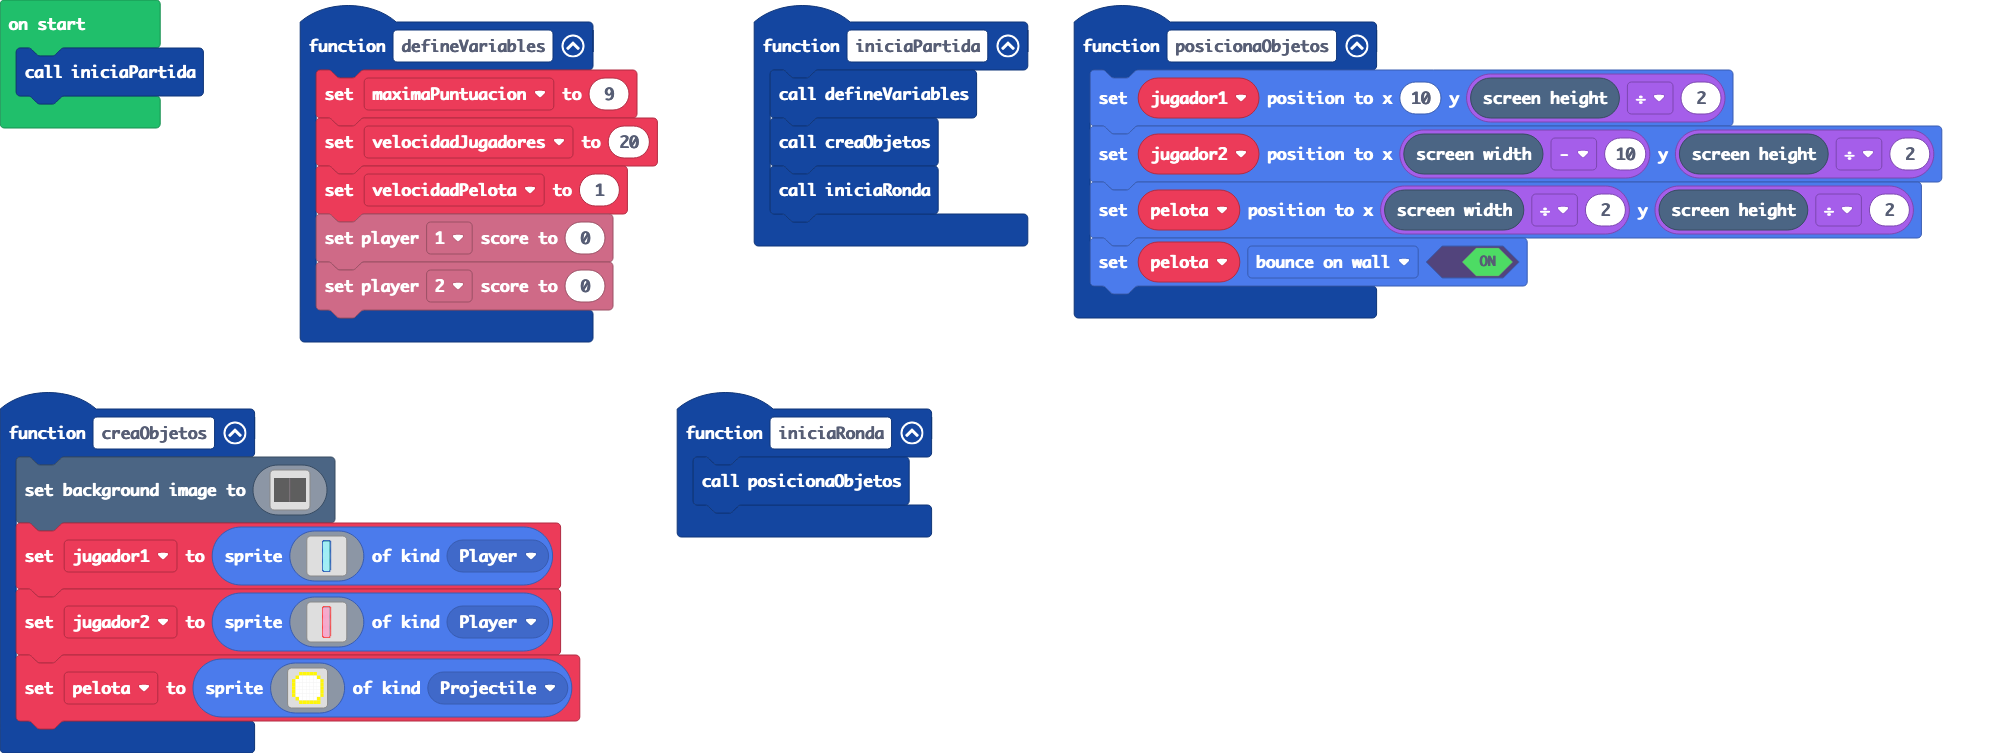
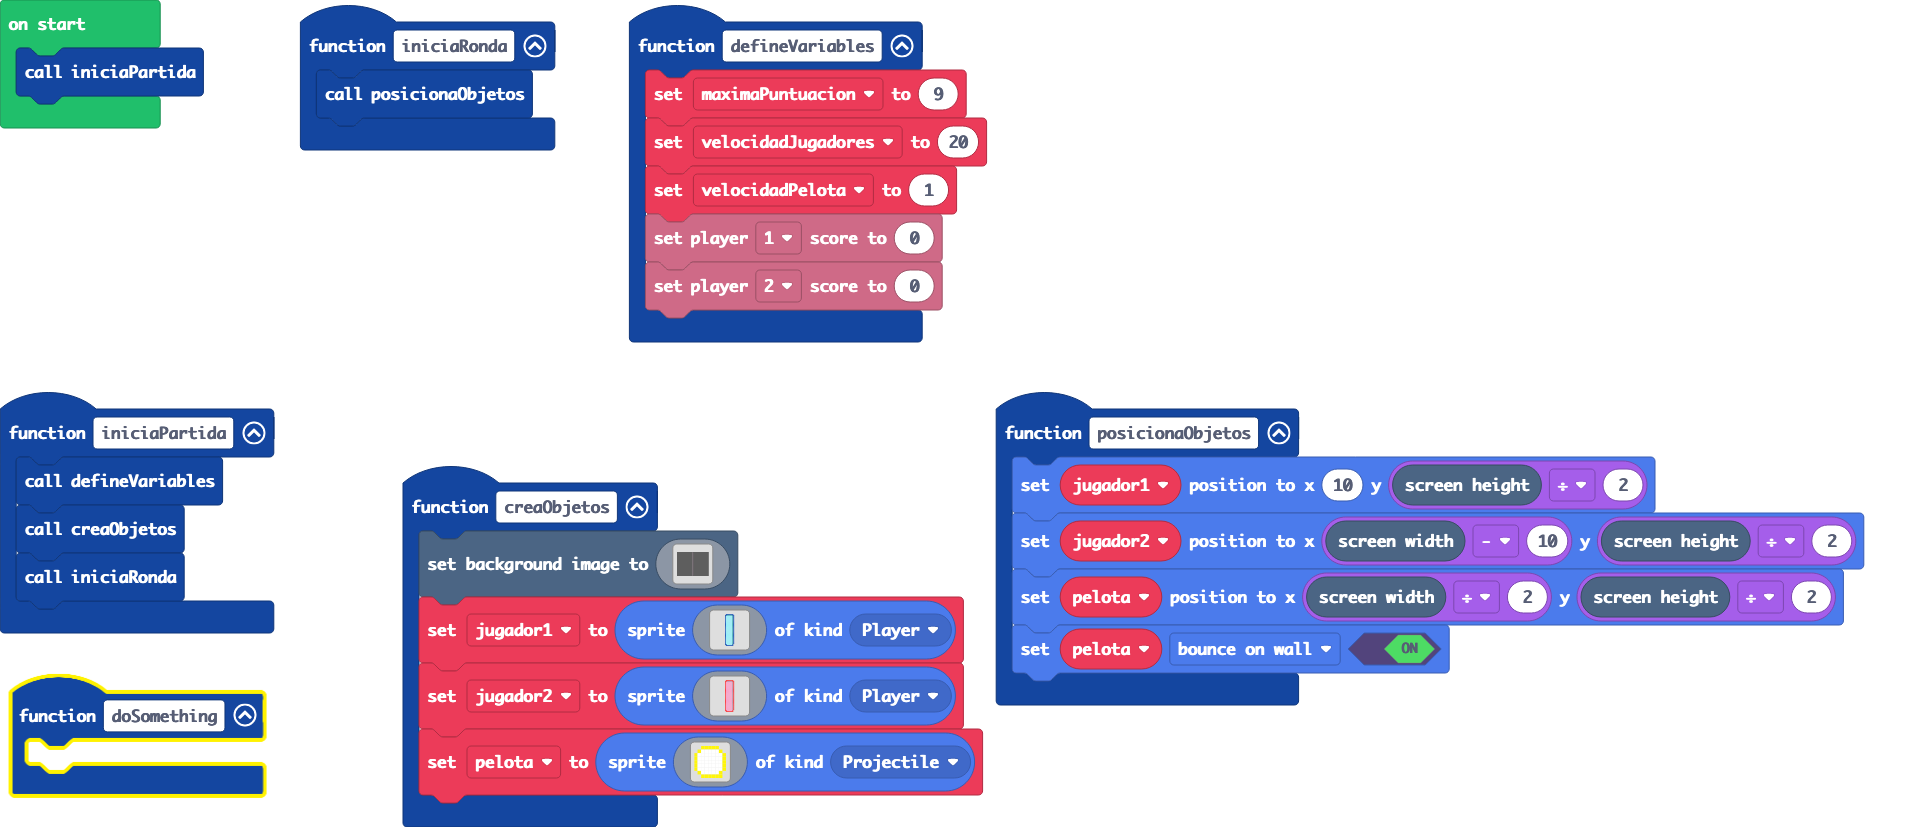
Update main.blocks, main.ts

diff --git a/main.ts b/main.ts
@@ -8,6 +8,9 @@ function defineVariables () {
     info.player1.setScore(0)
     info.player2.setScore(0)
 }
+function doSomething () {
+	
+}
 function iniciaPartida () {
     defineVariables()
     creaObjetos()
